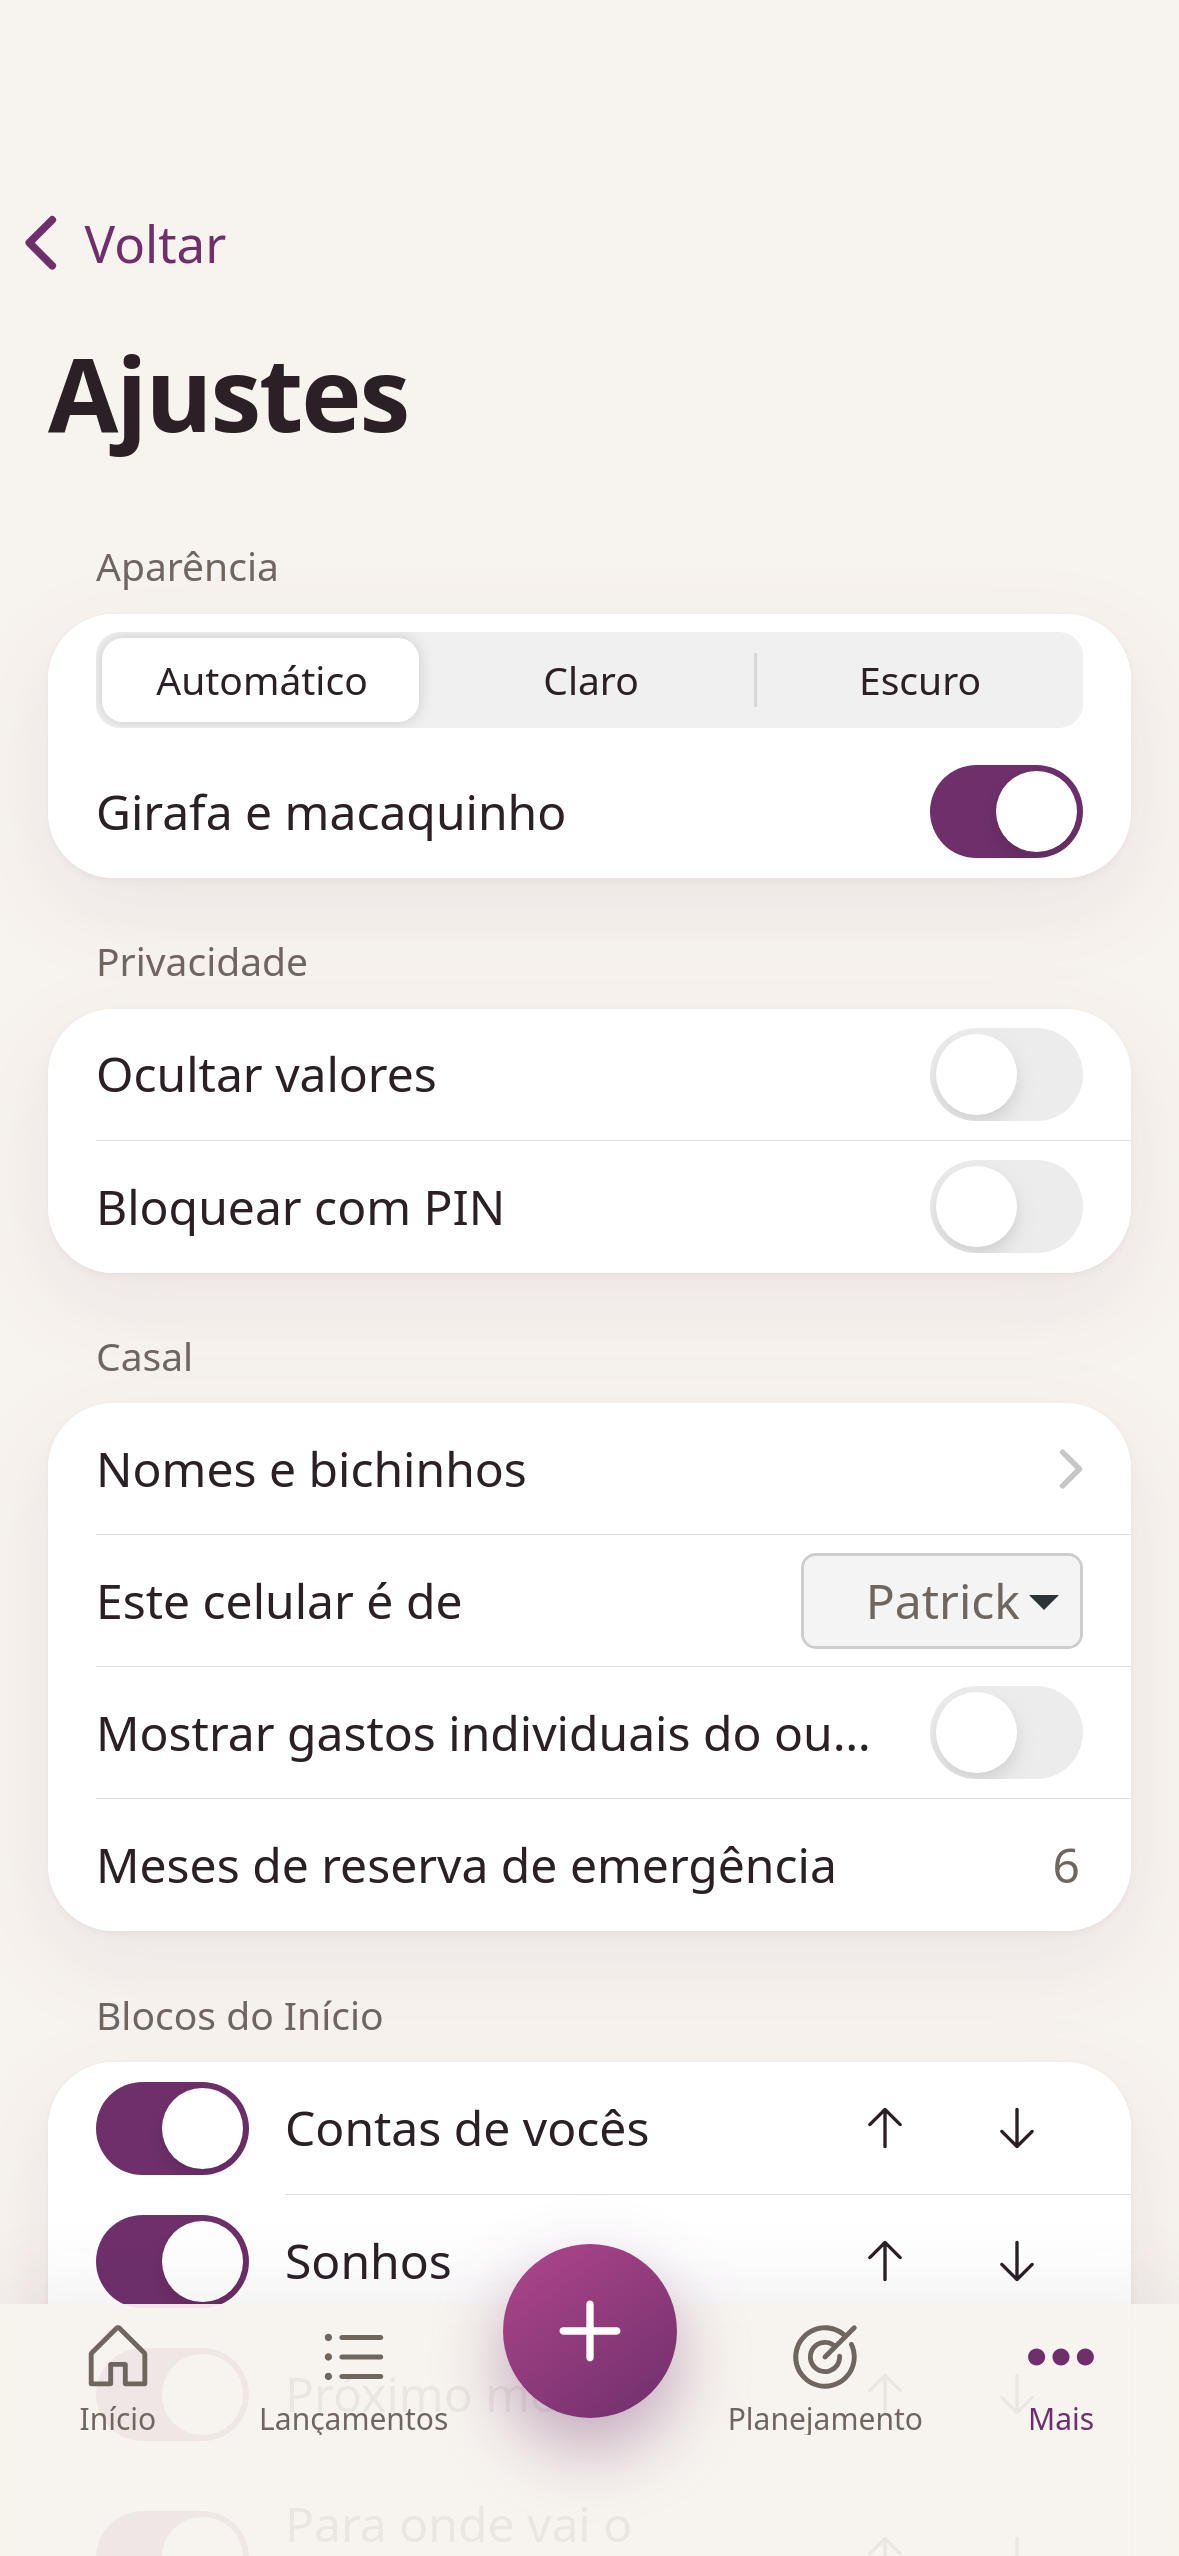
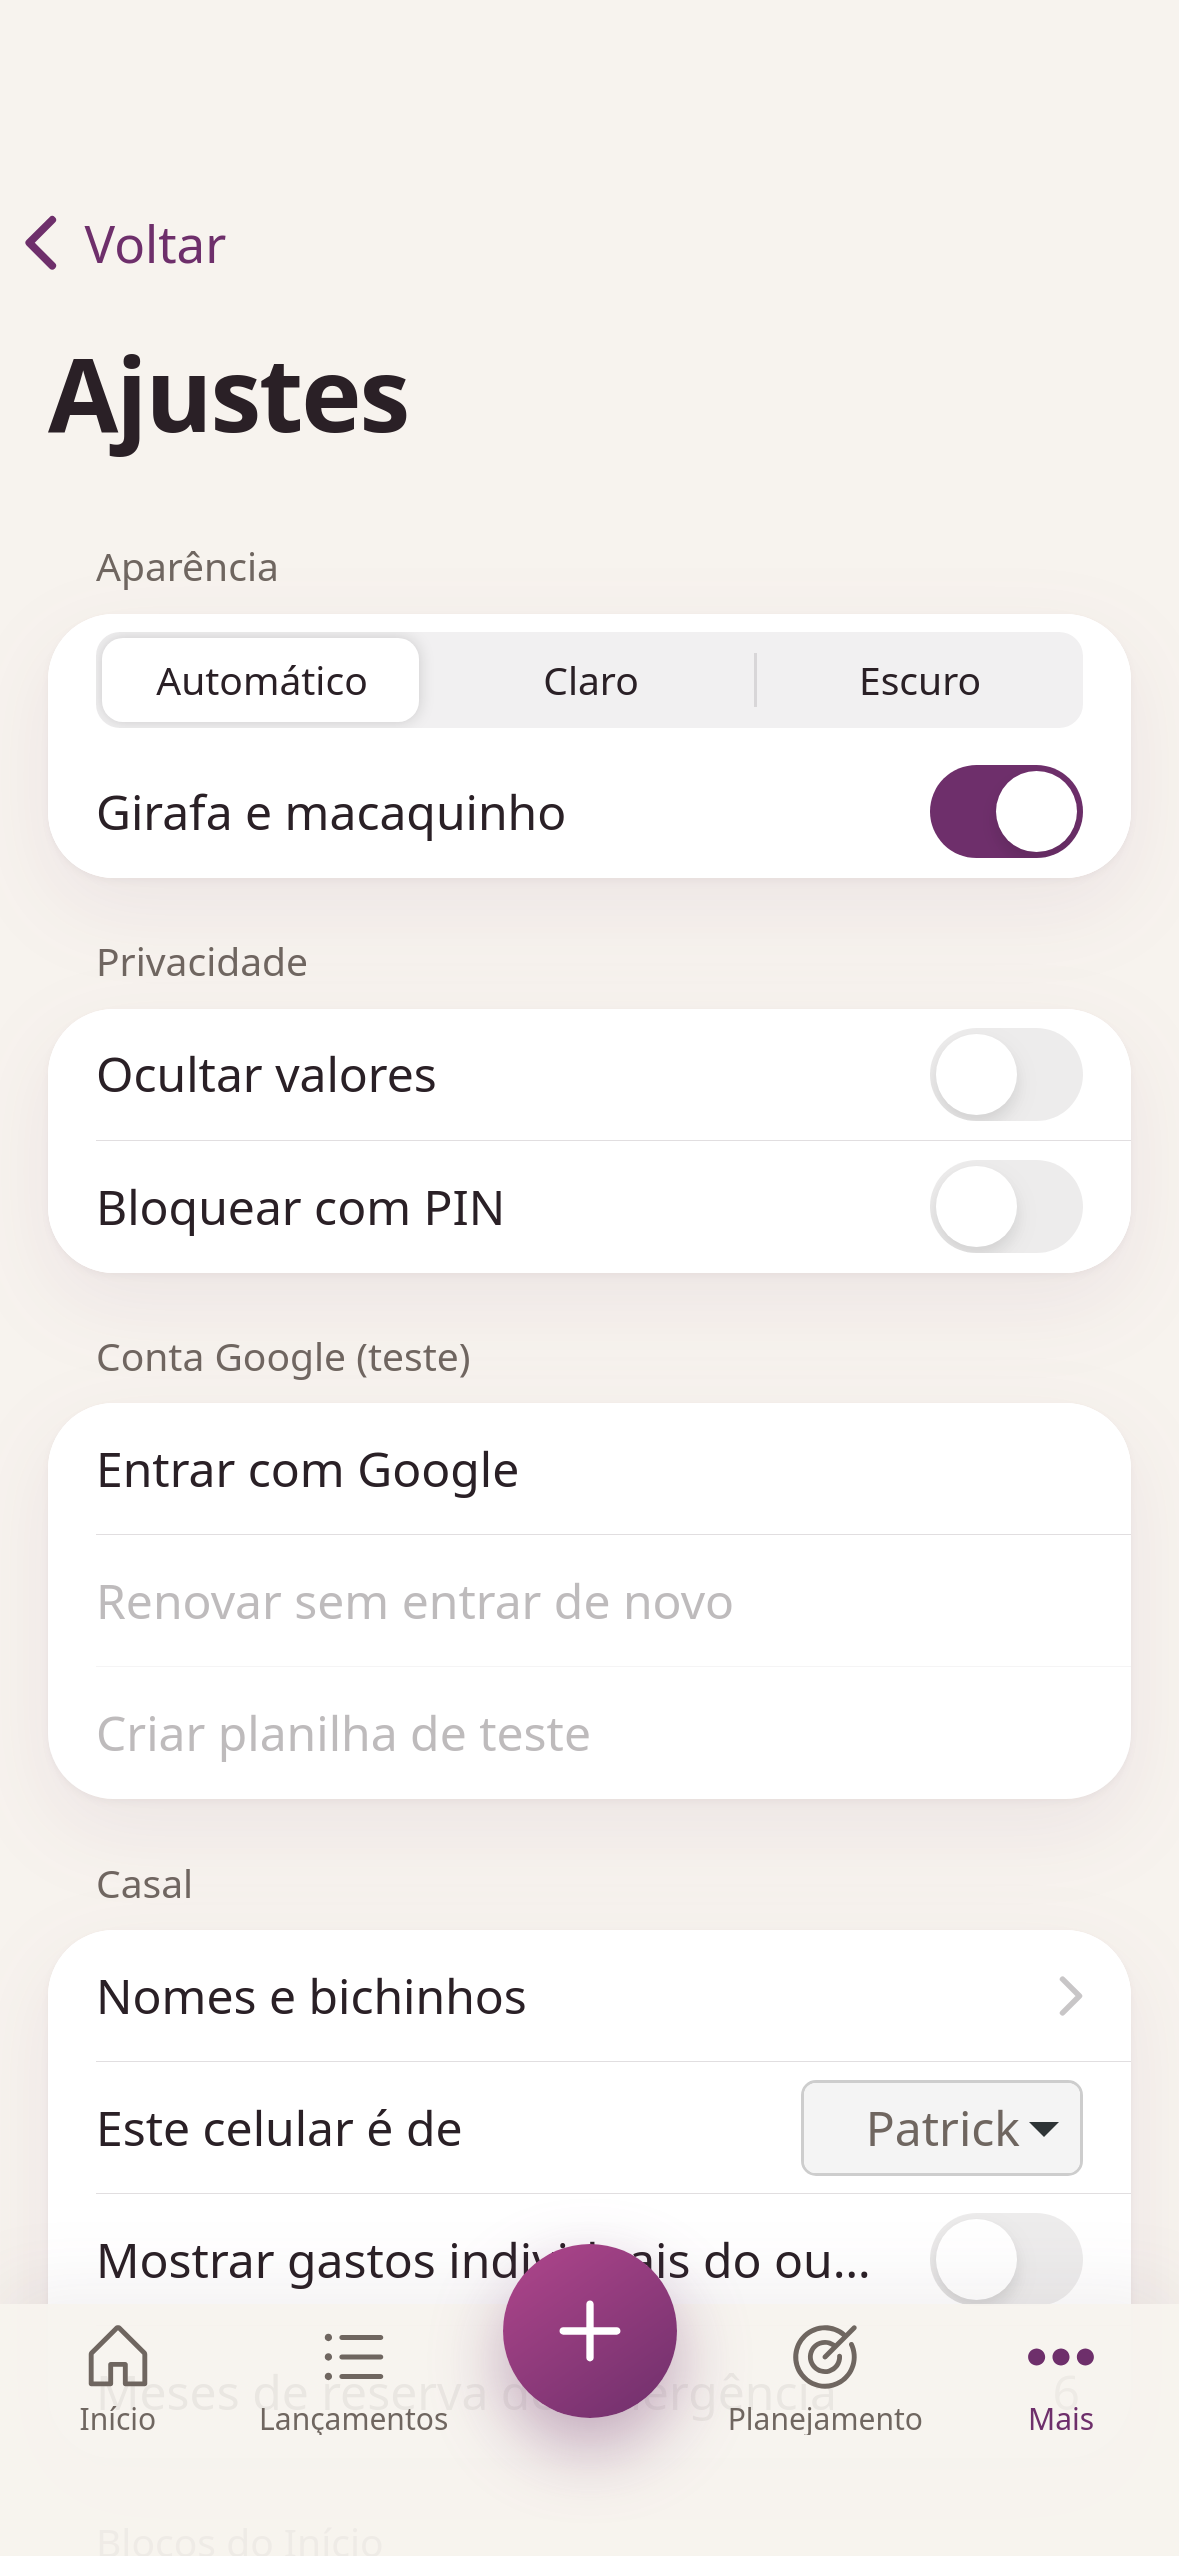
feat: add a Google sign-in test to the settings
Signs in from the browser with no server, renews the token and creates a
test spreadsheet, reporting on screen what happened. This answers whether
renewing a login works on an installed iPhone app before sync gets built
on top of it.

diff --git a/src/features/google/googleAuth.ts b/src/features/google/googleAuth.ts
@@ -1,0 +1,121 @@
+/** Public by design: it identifies the app to Google. The client secret never goes in this repo. */
+export const GOOGLE_CLIENT_ID =
+  '758644931446-usjucdb4fvd3b0kc6e2alebr58bgllin.apps.googleusercontent.com';
+
+// drive.file only reaches files the app itself created or was handed, never the rest of the Drive.
+const SCOPES = 'openid email https://www.googleapis.com/auth/drive.file';
+const GIS_URL = 'https://accounts.google.com/gsi/client';
+
+export type GooglePrompt = '' | 'select_account';
+
+export interface GoogleToken {
+  accessToken: string;
+  expiresInSeconds: number;
+}
+
+interface TokenResponse {
+  access_token?: string;
+  expires_in?: number | string;
+  error?: string;
+}
+
+interface TokenClient {
+  requestAccessToken: (config?: { prompt?: GooglePrompt }) => void;
+}
+
+declare global {
+  interface Window {
+    google?: {
+      accounts: {
+        oauth2: {
+          initTokenClient: (config: {
+            client_id: string;
+            scope: string;
+            callback: (response: TokenResponse) => void;
+            error_callback: (error: { type?: string }) => void;
+          }) => TokenClient;
+        };
+      };
+    };
+  }
+}
+
+const MESSAGES: Record<string, string> = {
+  popup_failed_to_open: 'O aparelho bloqueou a janela do Google.',
+  popup_closed: 'A janela do Google foi fechada antes de terminar.',
+  access_denied: 'O Google negou o acesso. Confira se este e-mail é usuário de teste do projeto.',
+};
+
+const describe = (code?: string) =>
+  MESSAGES[code ?? ''] ?? `O Google respondeu: ${code ?? 'erro'}.`;
+
+let client: TokenClient | null = null;
+let settle: { resolve: (t: GoogleToken) => void; reject: (e: Error) => void } | null = null;
+
+/** Safari only opens the popup inside the tap itself, so this has to finish before the button works. */
+export async function loadGoogle(): Promise<void> {
+  if (client) return;
+  if (!window.google) {
+    await new Promise<void>((resolve, reject) => {
+      const script = document.createElement('script');
+      script.src = GIS_URL;
+      script.async = true;
+      script.onload = () => resolve();
+      script.onerror = () => reject(new Error('Não deu para carregar o login do Google.'));
+      document.head.append(script);
+    });
+  }
+  client = window.google!.accounts.oauth2.initTokenClient({
+    client_id: GOOGLE_CLIENT_ID,
+    scope: SCOPES,
+    callback: (response) => {
+      if (response.access_token) {
+        settle?.resolve({
+          accessToken: response.access_token,
+          expiresInSeconds: Number(response.expires_in ?? 0),
+        });
+      } else {
+        settle?.reject(new Error(describe(response.error)));
+      }
+    },
+    error_callback: (error) => settle?.reject(new Error(describe(error.type))),
+  });
+}
+
+/** Call it directly from a tap: an `await` before this line would get the popup blocked. */
+export function requestToken(prompt: GooglePrompt): Promise<GoogleToken> {
+  return new Promise((resolve, reject) => {
+    if (!client) return reject(new Error('O login do Google ainda está carregando.'));
+    settle = { resolve, reject };
+    client.requestAccessToken({ prompt });
+  });
+}
+
+async function googleJson<T>(url: string, accessToken: string, init?: RequestInit): Promise<T> {
+  const response = await fetch(url, {
+    ...init,
+    headers: { Authorization: `Bearer ${accessToken}`, 'Content-Type': 'application/json' },
+  });
+  if (!response.ok) throw new Error(`O Google recusou o pedido (erro ${response.status}).`);
+  return (await response.json()) as T;
+}
+
+export async function fetchEmail(accessToken: string): Promise<string> {
+  const user = await googleJson<{ email?: string }>(
+    'https://www.googleapis.com/oauth2/v3/userinfo',
+    accessToken,
+  );
+  return user.email ?? 'conta sem e-mail';
+}
+
+export async function createTestSheet(accessToken: string): Promise<string> {
+  const sheet = await googleJson<{ spreadsheetUrl: string }>(
+    'https://sheets.googleapis.com/v4/spreadsheets',
+    accessToken,
+    {
+      method: 'POST',
+      body: JSON.stringify({ properties: { title: 'Meu Bem (teste de conexão)' } }),
+    },
+  );
+  return sheet.spreadsheetUrl;
+}

diff --git a/src/features/google/GoogleTest.tsx b/src/features/google/GoogleTest.tsx
@@ -1,0 +1,105 @@
+import { IonItem, IonLabel } from '@ionic/react';
+import { useEffect, useState } from 'react';
+import { GroupedList } from '../../ui/GroupedList';
+import {
+  createTestSheet,
+  fetchEmail,
+  loadGoogle,
+  requestToken,
+  type GooglePrompt,
+} from './googleAuth';
+
+/**
+ * The open question before building sync on Sheets: without a server, a login lasts about an hour, so
+ * does renewing it work on an installed iPhone app? This screen reports what actually happens there.
+ */
+export function GoogleTest() {
+  const [state, setState] = useState<'loading' | 'ready' | 'failed'>('loading');
+  const [accessToken, setAccessToken] = useState<string | null>(null);
+  const [email, setEmail] = useState<string | null>(null);
+  const [sheetUrl, setSheetUrl] = useState<string | null>(null);
+  const [lines, setLines] = useState<string[]>([]);
+  const note = (line: string) => setLines((all) => [...all, line]);
+
+  useEffect(() => {
+    let active = true;
+    loadGoogle().then(
+      () => active && setState('ready'),
+      () => active && setState('failed'),
+    );
+    return () => {
+      active = false;
+    };
+  }, []);
+
+  const signIn = (prompt: GooglePrompt, label: string) => {
+    const started = Date.now();
+    // No await before this: the popup has to open inside the tap.
+    requestToken(prompt).then(
+      async (token) => {
+        setAccessToken(token.accessToken);
+        const seconds = ((Date.now() - started) / 1000).toFixed(1);
+        const who = await fetchEmail(token.accessToken);
+        setEmail(who);
+        note(
+          `${label}: certo em ${seconds} s, vale por ${Math.round(token.expiresInSeconds / 60)} min.`,
+        );
+      },
+      (error: Error) => note(`${label}: ${error.message}`),
+    );
+  };
+
+  const makeSheet = async () => {
+    if (!accessToken) return;
+    try {
+      setSheetUrl(await createTestSheet(accessToken));
+      note('Planilha de teste criada.');
+    } catch (error) {
+      note(`Planilha: ${(error as Error).message}`);
+    }
+  };
+
+  return (
+    <GroupedList title="Conta Google (teste)">
+      <IonItem
+        button
+        detail={false}
+        disabled={state !== 'ready'}
+        onClick={() => signIn('select_account', 'Entrar')}
+      >
+        <IonLabel>
+          {state === 'failed'
+            ? 'Sem conexão com o Google'
+            : email
+              ? `Entrou como ${email}`
+              : 'Entrar com Google'}
+        </IonLabel>
+      </IonItem>
+      <IonItem
+        button
+        detail={false}
+        disabled={state !== 'ready' || !email}
+        onClick={() => signIn('', 'Renovar')}
+      >
+        <IonLabel>Renovar sem entrar de novo</IonLabel>
+      </IonItem>
+      <IonItem button detail={false} disabled={!accessToken} onClick={() => void makeSheet()}>
+        <IonLabel>Criar planilha de teste</IonLabel>
+      </IonItem>
+      {sheetUrl && (
+        <IonItem href={sheetUrl} target="_blank" rel="noreferrer" detail>
+          <IonLabel>Abrir a planilha</IonLabel>
+        </IonItem>
+      )}
+      {lines.length > 0 && (
+        <IonItem lines="none">
+          <IonLabel className="ion-text-wrap" aria-live="polite">
+            {lines.map((line, i) => (
+              <p key={i}>{line}</p>
+            ))}
+          </IonLabel>
+        </IonItem>
+      )}
+    </GroupedList>
+  );
+}

diff --git a/e2e/shell.spec.ts b/e2e/shell.spec.ts
@@ -134,6 +134,46 @@ test('sem deploy novo, procurar atualização diz que está em dia', async ({ pa
   await expect(page.getByText('Vocês já estão na versão mais recente.')).toBeVisible();
 });
 
+test('teste do Google: entra, mostra o e-mail, renova e relata um erro', async ({ page }) => {
+  // The real login needs a real account, so Google's side is stubbed here.
+  await page.addInitScript(() => {
+    const realFetch = window.fetch.bind(window);
+    window.fetch = (input, init) =>
+      String(input).includes('oauth2/v3/userinfo')
+        ? Promise.resolve(Response.json({ email: 'casal@example.com' }))
+        : realFetch(input, init);
+    let calls = 0;
+    (window as unknown as { google: unknown }).google = {
+      accounts: {
+        oauth2: {
+          initTokenClient: ({
+            callback,
+            error_callback,
+          }: {
+            callback: (response: unknown) => void;
+            error_callback: (error: unknown) => void;
+          }) => ({
+            requestAccessToken: () => {
+              calls += 1;
+              if (calls === 3) error_callback({ type: 'popup_failed_to_open' });
+              else callback({ access_token: 'fake', expires_in: 3599 });
+            },
+          }),
+        },
+      },
+    };
+  });
+  await page.goto('tabs/more/settings');
+  await skipOnboarding(page);
+  await page.getByText('Entrar com Google').click();
+  await expect(page.getByText('Entrou como casal@example.com')).toBeVisible();
+  await expect(page.getByText(/Entrar: certo em .* vale por 60 min/)).toBeVisible();
+  await page.getByText('Renovar sem entrar de novo').click();
+  await expect(page.getByText(/Renovar: certo em/)).toBeVisible();
+  await page.getByText('Renovar sem entrar de novo').click();
+  await expect(page.getByText('Renovar: O aparelho bloqueou a janela do Google.')).toBeVisible();
+});
+
 test('abre sem internet depois da primeira visita', async ({ page, context }) => {
   await page.goto('./');
   await skipOnboarding(page);

diff --git a/src/features/settings/SettingsPage.tsx b/src/features/settings/SettingsPage.tsx
@@ -17,6 +17,7 @@ import { Field, Sheet } from '../../ui/parts';
 import { BRAND } from '../../brand';
 import { checkForUpdate } from '../../pwa/register';
 import { NamesSheet } from '../couple/CouplePage';
+import { GoogleTest } from '../google/GoogleTest';
 import { faceIdAvailable, hashPin, newSalt, registerFaceId } from './lock';
 import { useToast } from '../../ui/useToast';
 
@@ -210,6 +211,8 @@ export default function SettingsPage() {
           </IonItem>
         )}
       </GroupedList>
+
+      <GoogleTest />
 
       <GroupedList title="Casal">
         <IonItem button detail onClick={() => setNamesOpen(true)}>
